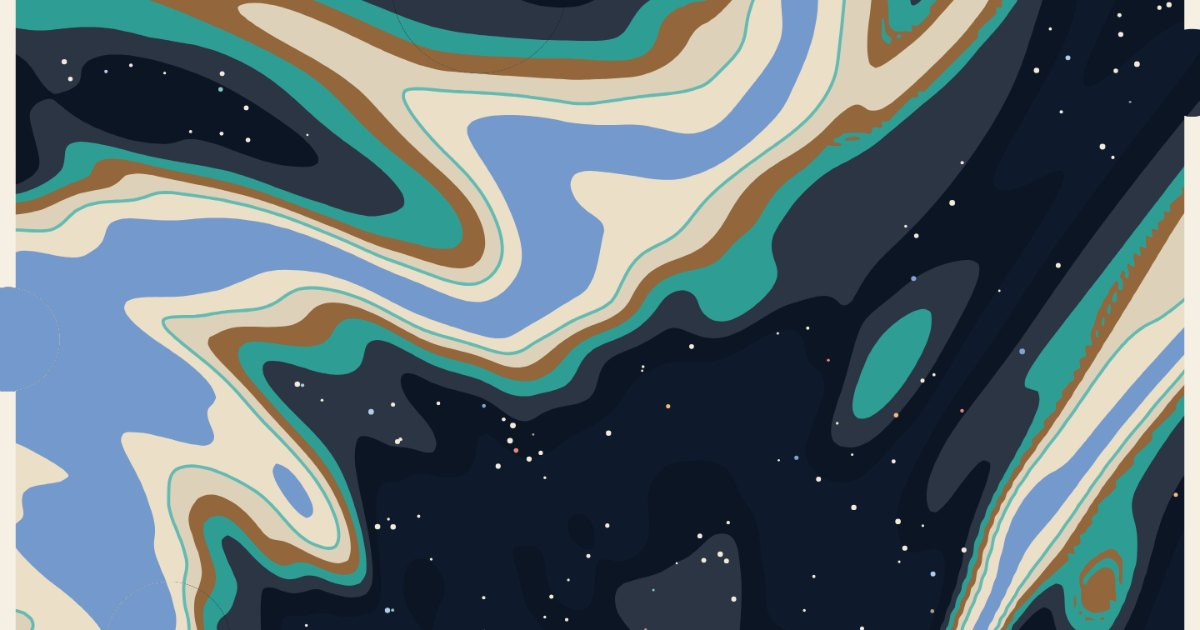
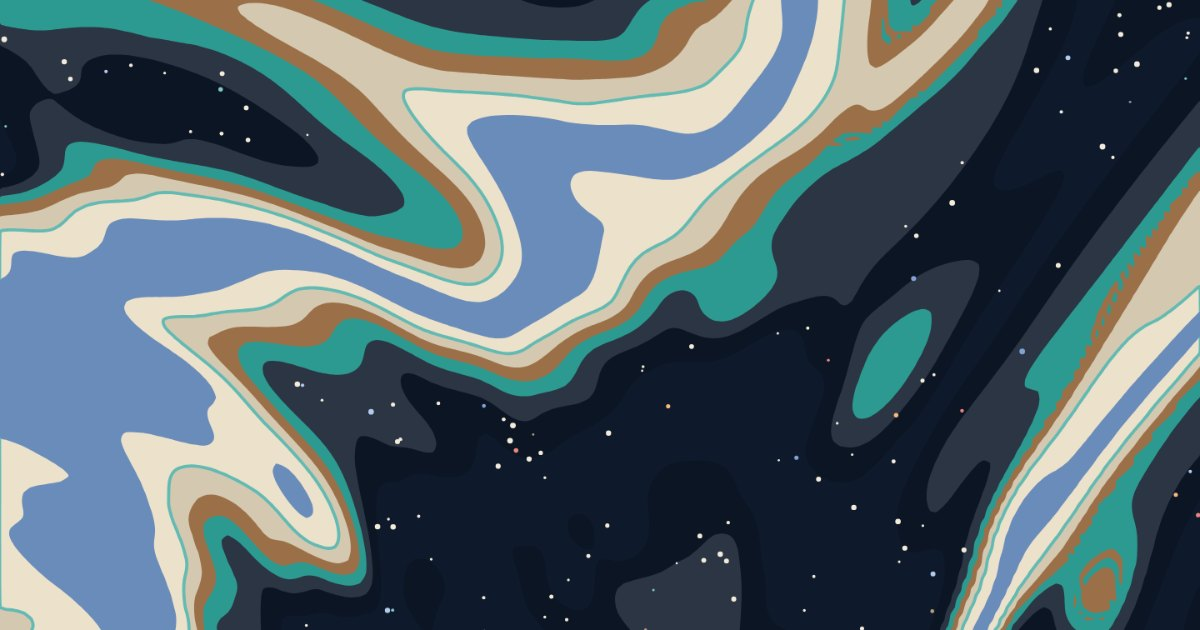
Vein: the frame goes
The paper border, its spill and their two dials are removed; the
marbling runs to the edge of the sheet, in the PNG and the SVG alike.

Claude-Session: https://claude.ai/code/session_01Hb5jk9z6h4o1AzZNFzskh6

diff --git a/vein/index.html b/vein/index.html
@@ -10,7 +10,7 @@
 <link rel="canonical" href="https://playgrnd.tools/vein">
 <meta property="og:site_name" content="playgrnd">
 <meta property="og:title" content="Vein — playgrnd">
-<meta property="og:description" content="Generate cut-paper marbling backgrounds — poured paint sliced into flat vector shapes over a starry ground, with a paper frame the pours spill over. Deal a new variation or turn the dials. Exports image, SVG and video.">
+<meta property="og:description" content="Generate cut-paper marbling backgrounds — poured paint sliced into flat vector shapes over a starry ground. Deal a new variation or turn the dials. Exports image, SVG and video.">
 <meta property="og:type" content="website">
 <meta property="og:url" content="https://playgrnd.tools/vein">
 <meta property="og:image" content="https://playgrnd.tools/vein/og.jpg">
@@ -19,9 +19,9 @@
 <meta property="og:image:alt" content="Artwork made with Vein.">
 <meta name="twitter:card" content="summary_large_image">
 <meta name="twitter:title" content="Vein — playgrnd">
-<meta name="twitter:description" content="Generate cut-paper marbling backgrounds — poured paint sliced into flat vector shapes over a starry ground, with a paper frame the pours spill over.">
+<meta name="twitter:description" content="Generate cut-paper marbling backgrounds — poured paint sliced into flat vector shapes over a starry ground.">
 <meta name="twitter:image" content="https://playgrnd.tools/vein/og.jpg">
-<meta name="description" content="Generate cut-paper marbling backgrounds — poured paint sliced into flat vector shapes over a starry ground, with a paper frame the pours spill over. Deal a new variation or turn the dials. Exports image, SVG and video.">
+<meta name="description" content="Generate cut-paper marbling backgrounds — poured paint sliced into flat vector shapes over a starry ground. Deal a new variation or turn the dials. Exports image, SVG and video.">
 <link rel="stylesheet" href="https://fonts.googleapis.com/css2?family=DM+Mono&display=swap">
 <style>
 :root{
@@ -637,10 +637,8 @@ input[type=range]{accent-color:var(--ink)}
         <div class="pr"><div class="top"><span class="k">Curve</span><span class="v" id="curveVal">60%</span></div><div class="track"><input type="range" id="curve" min="0" max="1" step="0.01" value="0.6"></div></div>
         <div class="pr"><div class="top"><span class="k">Levels</span><span class="v" id="levelsVal">9</span></div><div class="track"><input type="range" id="levels" min="3" max="14" step="1" value="9"></div></div>
         <div class="pr"><div class="top"><span class="k">Stripes</span><span class="v" id="tigerVal">50%</span></div><div class="track"><input type="range" id="tiger" min="0" max="1" step="0.01" value="0.5"></div></div></div></details>
-    <details class="grp"><summary>Finish</summary><div class="grp-b"><div class="pr"><div class="top"><span class="k">Edges</span><span class="v" id="edgesVal">40%</span></div><div class="track"><input type="range" id="edges" min="0" max="1" step="0.01" value="0.4"></div></div>
+    <details class="grp" open><summary>Finish</summary><div class="grp-b"><div class="pr"><div class="top"><span class="k">Edges</span><span class="v" id="edgesVal">40%</span></div><div class="track"><input type="range" id="edges" min="0" max="1" step="0.01" value="0.4"></div></div>
         <div class="pr"><div class="top"><span class="k">Stars</span><span class="v" id="starsVal">50%</span></div><div class="track"><input type="range" id="stars" min="0" max="1" step="0.01" value="0.5"></div></div>
-        <div class="pr"><div class="top"><span class="k">Frame</span><span class="v" id="frameVal">35%</span></div><div class="track"><input type="range" id="frame" min="0" max="1" step="0.01" value="0.35"></div></div>
-        <div class="pr"><div class="top"><span class="k">Spill</span><span class="v" id="spillVal">50%</span></div><div class="track"><input type="range" id="spill" min="0" max="1" step="0.01" value="0.5"></div></div>
         <div class="pr"><div class="top"><span class="k">Tints</span><span class="v" id="tintsVal">50%</span></div><div class="track"><input type="range" id="tints" min="0" max="1" step="0.01" value="0.5"></div></div>
         <div class="pr"><div class="top"><span class="k">Runs</span><span class="v" id="runsVal">50%</span></div><div class="track"><input type="range" id="runs" min="0" max="1" step="0.01" value="0.5"></div></div></div></details><div class="tog-grp"><button class="pillbtn" id="motionTog" aria-pressed="false">Animate<span class="sw" aria-hidden="true"></span></button><div class="group" id="motionBody" hidden><div class="misc stack"><span class="mhead"><span class="k">Movement</span></span><span class="mval"><div class="chips" id="modes"></div></span></div>
           <div class="pr"><div class="top"><span class="k">Amount</span><span class="v" id="amtVal">0.60</span></div><div class="track"><input type="range" id="amt" min="0.05" max="2" step="0.05" value="0.6"></div></div>
@@ -752,7 +750,7 @@ const FLOWS=[["marble","Marble"],["swirl","Swirl"],["ripple","Ripple"]];
 
 /* The first ink is the dark ground the pours sit on and the night sky
    behind them; the rest are dealt to the pours in runs, the lighter ones
-   also lending the stars and the paper of the frame. */
+   also lending the stars. */
 const PALETTES=[
   ["#0E1A2B","#2E63B8","#7FA8E0","#E9DCC3","#F2892B","#E0362F","#2FA39A","#8B5A2B"],
   ["#12102A","#FF3D7A","#3DE0FF","#F2F2F0","#FFB020","#00E5A8","#7B5CFF"],
@@ -771,7 +769,7 @@ const PALETTES=[
 const S={
   seed:7, ratio:"3:4",
   flow:"marble", scale:0.5, curve:0.6, levels:9, tiger:0.5,
-  edges:0.4, stars:0.5, frame:0.35, spill:0.5, tints:0.5, runs:0.5,
+  edges:0.4, stars:0.5, tints:0.5, runs:0.5,
   pal:PALETTES[0].slice(),
   motion:{on:false,mode:"drift",amount:0.6,fps:12,frames:36},
   size_px:2400
@@ -804,11 +802,9 @@ function dealV(seed){
   S.tiger=0.3+r()*0.5;
   S.edges=0.2+r()*0.5;
   S.stars=0.3+r()*0.5;
-  S.frame=r()<0.2?0:0.2+r()*0.35;
-  S.spill=0.3+r()*0.5;
   S.tints=0.3+r()*0.5;
   S.runs=0.3+r()*0.5;
-  for(const k of ["scale","curve","tiger","edges","stars","frame","spill","tints","runs"]) S[k]=Math.round(S[k]*100)/100;
+  for(const k of ["scale","curve","tiger","edges","stars","tints","runs"]) S[k]=Math.round(S[k]*100)/100;
 }
 function rgbV(h){
   h=(h||"#000").replace("#","");
@@ -962,20 +958,7 @@ function sceneV(W,H,f){
     const ik=hshV(k,13,seed)<0.7?light:1+((hshV(k,14,seed)*(NI-1))|0);
     stars.push([x,y,U*(0.0012+hshV(k,15,seed)*0.002),hexV(tintV(inks[ik],0.4))]);
   }
-  /* ---- the frame: paper, with the pours spilling over it ---- */
-  const fw=S.frame*U*0.06;
-  const paper=hexV(tintV(inks[light],0.55));
-  const spills=[];
-  if(fw>0&&S.spill>0){
-    const ns2=Math.round(S.spill*8);
-    for(let k=0;k<ns2;k++){
-      const side=k&3, tt=hshV(k,21,seed), rad=U*(0.04+hshV(k,22,seed)*0.08);
-      const x=side===0?tt*W:side===1?W-fw*0.5:side===2?tt*W:fw*0.5;
-      const y=side===0?fw*0.5:side===1?tt*H:side===2?H-fw*0.5:tt*H;
-      spills.push([x,y,rad]);
-    }
-  }
-  return {ground:hexV(inks[0]),items,stars,fw,paper,spills,W,H};
+  return {ground:hexV(inks[0]),items,stars,W,H};
 }
 
 function paint(c,W,H,f){
@@ -985,26 +968,11 @@ function paint(c,W,H,f){
   c.globalAlpha=1;
   c.fillStyle=sc.ground; c.fillRect(0,0,W,H);
   const paths=sc.items.map(it=>new Path2D(it.d));
-  const drawLevels=()=>{
-    sc.items.forEach((it,k)=>{
-      c.fillStyle=it.fill; c.fill(paths[k],"evenodd");
-      if(it.stroke){ c.strokeStyle=it.stroke; c.lineWidth=it.sw; c.lineJoin="round"; c.stroke(paths[k]); }
-    });
-  };
-  drawLevels();
+  sc.items.forEach((it,k)=>{
+    c.fillStyle=it.fill; c.fill(paths[k],"evenodd");
+    if(it.stroke){ c.strokeStyle=it.stroke; c.lineWidth=it.sw; c.lineJoin="round"; c.stroke(paths[k]); }
+  });
   for(const s of sc.stars){ c.fillStyle=s[3]; c.beginPath(); c.arc(s[0],s[1],s[2],0,TAUV); c.fill(); }
-  if(sc.fw>0){
-    c.fillStyle=sc.paper;
-    c.beginPath(); c.rect(0,0,W,H); c.rect(sc.fw,sc.fw,W-2*sc.fw,H-2*sc.fw); c.fill("evenodd");
-    if(sc.spills.length){
-      c.save(); c.beginPath();
-      for(const s of sc.spills){ c.moveTo(s[0]+s[2],s[1]); c.arc(s[0],s[1],s[2],0,TAUV); }
-      c.clip();
-      c.fillStyle=sc.ground; c.fillRect(0,0,W,H);
-      drawLevels();
-      c.restore();
-    }
-  }
 }
 
 /* ---- the SVG: the same scene, written out ---- */
@@ -1015,15 +983,8 @@ function svgFrame(f){
   const p=v=>Math.round(v*10)/10;
   let lv="";
   for(const it of sc.items) lv+=`<path d="${it.d}" fill="${it.fill}" fill-rule="evenodd"${it.stroke?` stroke="${it.stroke}" stroke-width="${p(it.sw)}" stroke-linejoin="round"`:""}/>`;
-  let out=`<rect width="${W}" height="${H}" fill="${sc.ground}"/><g id="lv${f}">${lv}</g>`;
+  let out=`<rect width="${W}" height="${H}" fill="${sc.ground}"/><g>${lv}</g>`;
   if(sc.stars.length) out+=`<g>`+sc.stars.map(s=>`<circle cx="${p(s[0])}" cy="${p(s[1])}" r="${p(s[2])}" fill="${s[3]}"/>`).join("")+`</g>`;
-  if(sc.fw>0){
-    out+=`<path d="M0 0H${W}V${H}H0Z M${p(sc.fw)} ${p(sc.fw)}H${p(W-sc.fw)}V${p(H-sc.fw)}H${p(sc.fw)}Z" fill="${sc.paper}" fill-rule="evenodd"/>`;
-    if(sc.spills.length){
-      out+=`<clipPath id="sp${f}">`+sc.spills.map(s=>`<circle cx="${p(s[0])}" cy="${p(s[1])}" r="${p(s[2])}"/>`).join("")+`</clipPath>`;
-      out+=`<g clip-path="url(#sp${f})"><rect width="${W}" height="${H}" fill="${sc.ground}"/><use href="#lv${f}"/></g>`;
-    }
-  }
   return out;
 }
 function svgWrap(inner){
@@ -1318,7 +1279,7 @@ $("#rotColors").addEventListener("click",()=>{
 });
 const pc=v=>Math.round(v*100)+"%";
 bindRange("levels",v=>v|0,v=>S.levels=v|0);
-for(const k of ["scale","curve","tiger","edges","stars","frame","spill","tints","runs"]) bindRange(k,pc,v=>S[k]=v);
+for(const k of ["scale","curve","tiger","edges","stars","tints","runs"]) bindRange(k,pc,v=>S[k]=v);
 bindRange("amt",v=>v.toFixed(2),v=>S.motion.amount=v);
 $("#fps").addEventListener("input",e=>{S.motion.fps=parseInt(e.target.value,10);
   $("#fpsVal").textContent=S.motion.fps+" fps";if(playing)setPlaying(true);});
@@ -1345,7 +1306,7 @@ function newSeed(v){
   const put=(id,val,txt)=>{const e=$("#"+id),l=$("#"+id+"Val");if(e)e.value=val;if(l)l.textContent=txt;};
   const pc=v=>Math.round(v*100)+"%";
   put("levels",S.levels,String(S.levels));
-  for(const k of ["scale","curve","tiger","edges","stars","frame","spill","tints","runs"]) put(k,S[k],pc(S[k]));
+  for(const k of ["scale","curve","tiger","edges","stars","tints","runs"]) put(k,S[k],pc(S[k]));
   buildSwatches(); accent();
   reframe();
 }
